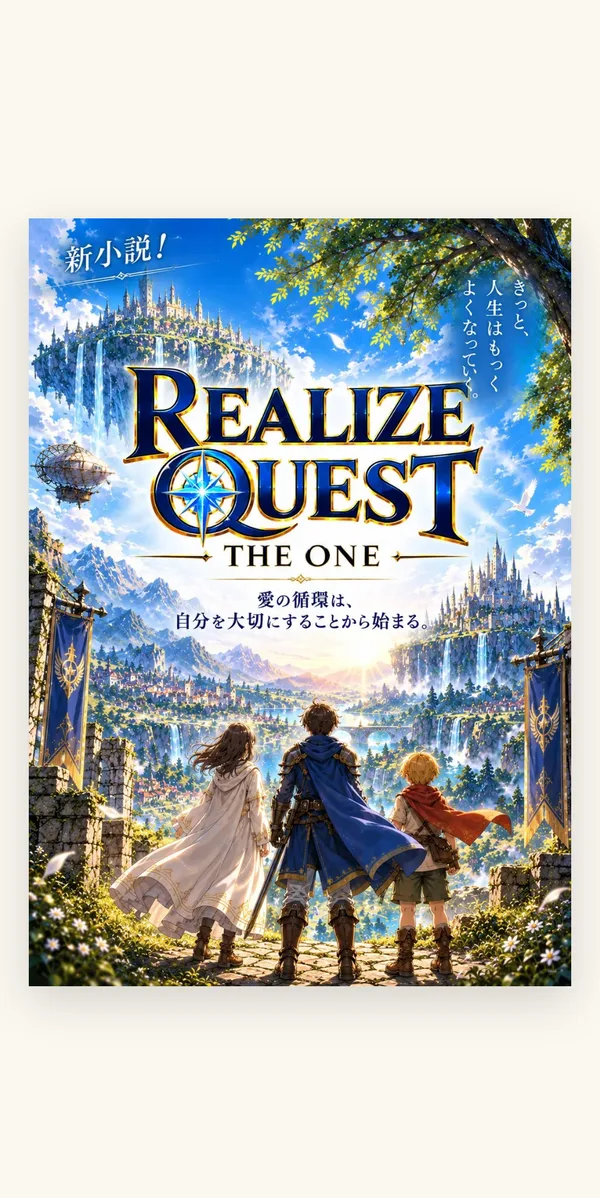
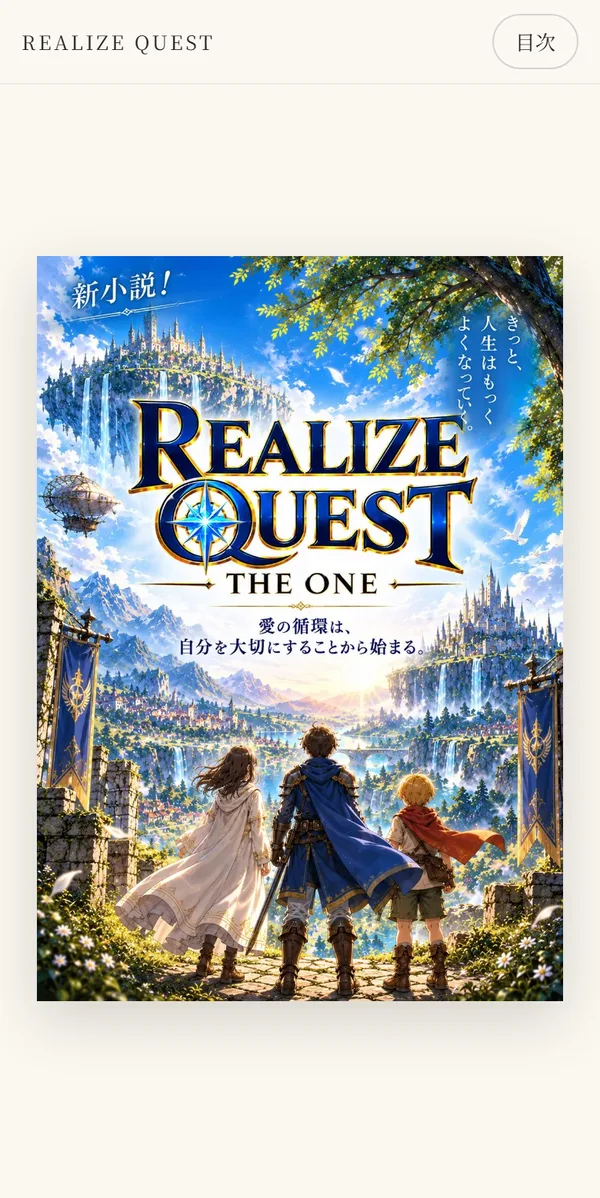
改善版: QUESTを電子書籍の表紙と本文ページの2枚並びに

diff --git a/v2/index.html b/v2/index.html
@@ -78,7 +78,7 @@
 <p data-fit="" style="--fit:4.104vw;--fit-cap:15px"><w-b>18本から、</w-b><w-b>未設計に</w-b><w-b>対応する</w-b><w-b>内容へ。</w-b></p></div>
 <div><span>FEEL &amp; REMEMBER</span>
 <h3><w-b>QUESTを</w-b><w-b>読む・聴く</w-b></h3>
-<p data-fit="" style="--fit:3.901vw;--fit-cap:15px"><w-b>物語の</w-b><w-b>最初から、</w-b><w-b>順番に</w-b><w-b>冒険を</w-b><w-b>楽しむ。</w-b></p></div></div><ol class="flow flow-h flow-academy"><li><strong><w-b>Check42で</w-b><w-b>気づく</w-b></strong><span><w-b>まだ</w-b><w-b>考えていない</w-b><w-b>テーマが</w-b><w-b>分かる</w-b></span></li><li><strong><w-b>ACADEMYで</w-b><w-b>学ぶ</w-b></strong><span><w-b>必要な</w-b><w-b>内容を</w-b><w-b>動画で</w-b><w-b>学ぶ</w-b></span></li><li><strong><w-b>QUESTで</w-b><w-b>感じる</w-b></strong><span><w-b>物語で、</w-b><w-b>その</w-b><w-b>大切さを</w-b><w-b>感じる</w-b></span></li><li><strong><w-b>ミオ先生と</w-b><w-b>整理する</w-b></strong><span><w-b>感じた</w-b><w-b>ことを</w-b><w-b>言葉に</w-b><w-b>する</w-b></span></li><li><strong><w-b>ROADMAPに</w-b><w-b>つなぐ</w-b></strong><span><w-b>人生設計書に</w-b><w-b>まとめる</w-b></span></li></ol><div class="academy-row"><div class="can"><p class="can-label"><w-b>できる</w-b><w-b>こと</w-b></p><ul><li><w-b>Check42の</w-b><w-b>結果に</w-b><w-b>合わせて、</w-b><w-b>動画を</w-b><w-b>選んで</w-b><w-b>学ぶ</w-b></li><li><w-b>冒険物語</w-b><w-b>『REALIZE QUEST THE ONE』を</w-b><w-b>最初から</w-b><w-b>読み進める</w-b></li><li><w-b>心に</w-b><w-b>残った</w-b><w-b>ことを</w-b><w-b>ミオ先生に</w-b><w-b>話し、</w-b><w-b>自分の</w-b><w-b>願いに</w-b><w-b>気づく</w-b></li></ul></div><figure class="shot-panel"><div class="phones"><div class="phone"><img alt="物語 REALIZE QUEST THE ONE の表紙" decoding="async" height="1198" loading="lazy" src="../shots/quest.webp" width="600"/></div></div><figcaption><w-b>物語</w-b><w-b>『REALIZE QUEST THE ONE』</w-b><w-b>（電子書籍版）</w-b></figcaption></figure></div></div>
+<p data-fit="" style="--fit:3.901vw;--fit-cap:15px"><w-b>物語の</w-b><w-b>最初から、</w-b><w-b>順番に</w-b><w-b>冒険を</w-b><w-b>楽しむ。</w-b></p></div></div><ol class="flow flow-h flow-academy"><li><strong><w-b>Check42で</w-b><w-b>気づく</w-b></strong><span><w-b>まだ</w-b><w-b>考えていない</w-b><w-b>テーマが</w-b><w-b>分かる</w-b></span></li><li><strong><w-b>ACADEMYで</w-b><w-b>学ぶ</w-b></strong><span><w-b>必要な</w-b><w-b>内容を</w-b><w-b>動画で</w-b><w-b>学ぶ</w-b></span></li><li><strong><w-b>QUESTで</w-b><w-b>感じる</w-b></strong><span><w-b>物語で、</w-b><w-b>その</w-b><w-b>大切さを</w-b><w-b>感じる</w-b></span></li><li><strong><w-b>ミオ先生と</w-b><w-b>整理する</w-b></strong><span><w-b>感じた</w-b><w-b>ことを</w-b><w-b>言葉に</w-b><w-b>する</w-b></span></li><li><strong><w-b>ROADMAPに</w-b><w-b>つなぐ</w-b></strong><span><w-b>人生設計書に</w-b><w-b>まとめる</w-b></span></li></ol><div class="academy-row"><div class="can"><p class="can-label"><w-b>できる</w-b><w-b>こと</w-b></p><ul><li><w-b>Check42の</w-b><w-b>結果に</w-b><w-b>合わせて、</w-b><w-b>動画を</w-b><w-b>選んで</w-b><w-b>学ぶ</w-b></li><li><w-b>冒険物語</w-b><w-b>『REALIZE QUEST THE ONE』を</w-b><w-b>最初から</w-b><w-b>読み進める</w-b></li><li><w-b>心に</w-b><w-b>残った</w-b><w-b>ことを</w-b><w-b>ミオ先生に</w-b><w-b>話し、</w-b><w-b>自分の</w-b><w-b>願いに</w-b><w-b>気づく</w-b></li></ul></div><figure class="shot-panel pair"><div class="phones"><div class="phone"><img alt="電子書籍 REALIZE QUEST THE ONE の表紙" decoding="async" height="1198" loading="lazy" src="../shots/quest.webp" width="600"/></div><div class="phone"><img alt="電子書籍 REALIZE QUEST THE ONE の本文のページ" decoding="async" height="1198" loading="lazy" src="../shots/quest-read.webp" width="600"/></div></div><figcaption><w-b>物語</w-b><w-b>『REALIZE QUEST THE ONE』の</w-b><w-b>電子書籍。</w-b><w-b>表紙と</w-b><w-b>本文の</w-b><w-b>ページ</w-b></figcaption></figure></div></div>
 <article class="chapter ch academy-chapter"><div class="ch-head"><p class="eyebrow">LIFE ACADEMY</p><h3 data-fit="" style="--fit:6.508vw;--fit-cap:26px">LIFE ACADEMY<br/><w-b>この</w-b><w-b>冒険が、</w-b><w-b>５年後、</w-b><w-b>１０年後の</w-b><br/><w-b>あなたの</w-b><w-b>選択を</w-b><w-b>支えますように。</w-b></h3></div><div class="chapter-visual screen-visual"><figure class="shot-panel"><div class="phones"><div class="phone"><img alt="LIFE Academy の本棚の画面" decoding="async" height="1198" loading="lazy" src="../shots/academy.webp" width="600"/></div></div><figcaption><w-b>LIFE Academyの</w-b><w-b>本棚画面。</w-b><w-b>動画の</w-b><w-b>視聴の</w-b><w-b>進み具合が</w-b><w-b>分かります</w-b></figcaption></figure></div><div class="ch-body"><div class="prose"><p><w-b>社会人と</w-b><w-b>して</w-b><w-b>歩み始める</w-b><w-b>あなたへ。</w-b><br/><w-b>これからの</w-b><w-b>人生には、</w-b><w-b>たくさんの</w-b><w-b>出会いと</w-b><w-b>選択が</w-b><w-b>待っています。</w-b></p></div><details class="more"><summary><span class="t-open"><w-b>詳しく</w-b><w-b>読む</w-b></span><span class="t-close"><w-b>閉じる</w-b></span></summary><div class="prose"><p><w-b>初めての</w-b><w-b>給料を</w-b><w-b>どう</w-b><w-b>使うか。</w-b><w-b>どんな</w-b><w-b>暮らしを</w-b><w-b>したいか。</w-b><w-b>誰と、</w-b><w-b>どんな</w-b><w-b>未来を</w-b><w-b>つくるか。</w-b><w-b>そして、</w-b><w-b>自分や</w-b><w-b>大切な</w-b><w-b>人を</w-b><w-b>どう</w-b><w-b>守っていくか。</w-b></p><p><w-b>その</w-b><w-b>一つ</w-b><w-b>ひとつは、</w-b><w-b>ひとつなぎの</w-b><w-b>人生に</w-b><w-b>なっていきます。</w-b></p><p><w-b>LIFE ACADEMYは、</w-b><w-b>あなたが</w-b><w-b>自分の</w-b><w-b>人生を</w-b><w-b>考え、</w-b><w-b>大切な</w-b><w-b>ものを</w-b><w-b>守りながら</w-b><w-b>未来を</w-b><w-b>選んでいく</w-b><w-b>ための、</w-b><w-b>人生教育です。</w-b></p><p><w-b>自分に</w-b><w-b>必要な</w-b><w-b>ことから、</w-b><w-b>学ぶ。</w-b></p><p><w-b>最初の</w-b><w-b>入口は、</w-b><w-b>LIFE Check42。</w-b><br/><w-b>お金・住まい・万が一・</w-b><w-b>健康・災害・老後という</w-b><w-b>６つの</w-b><w-b>テーマから、</w-b><w-b>まだ</w-b><w-b>考えられていない</w-b><w-b>こと、</w-b><w-b>備えられていない</w-b><w-b>こと</w-b><w-b>——人生の</w-b><w-b>「未設計」を</w-b><w-b>見つけます。</w-b></p><p><w-b>その</w-b><w-b>結果に</w-b><w-b>合わせて、</w-b><w-b>18本の</w-b><w-b>eラーニング動画の</w-b><w-b>中から、</w-b><w-b>自分に</w-b><w-b>必要な</w-b><w-b>内容を</w-b><w-b>学びます。</w-b></p><p><w-b>自分との</w-b><w-b>つながりが</w-b><w-b>分かるから、</w-b><w-b>学ぶ</w-b><w-b>理由が</w-b><w-b>見えてくる。</w-b><w-b>知識を</w-b><w-b>得る</w-b><w-b>ことで、</w-b><w-b>これから</w-b><w-b>何を</w-b><w-b>考え、</w-b><w-b>何を</w-b><w-b>準備すれば</w-b><w-b>よいかが、</w-b><w-b>少し</w-b><w-b>ずつ</w-b><w-b>見えてきます。</w-b></p></div></details></div></article>
 <article class="chapter ch academy-chapter"><div class="ch-head"><p class="eyebrow">LIFE ACADEMY</p><h3 data-fit="" style="--fit:6.135vw;--fit-cap:26px"><w-b>そして、</w-b><w-b>人生を</w-b><w-b>心で</w-b><w-b>感じる</w-b><w-b>冒険へ。</w-b></h3></div><div class="chapter-visual">
 <img alt="物語に心を動かされながら読書する" decoding="async" height="1024" loading="lazy" src="../assets/read.webp?v=2" width="1536"/></div><div class="ch-body"><div class="prose"><p><w-b>動画での</w-b><w-b>学びと</w-b><w-b>並行して</w-b><w-b>楽しむのが、</w-b><w-b>冒険物語</w-b><w-b>『REALIZE QUEST THE ONE』です。</w-b></p></div><details class="more"><summary><span class="t-open"><w-b>詳しく</w-b><w-b>読む</w-b></span><span class="t-close"><w-b>閉じる</w-b></span></summary><div class="prose"><p><w-b>最初の</w-b><w-b>ページから</w-b><w-b>旅を</w-b><w-b>共にし、</w-b><w-b>登場人物と</w-b><w-b>出会い、</w-b><w-b>迷い、</w-b><w-b>選びながら、</w-b><w-b>人生全体に</w-b><w-b>触れていきます。</w-b></p><p><w-b>旅立つ勇気。</w-b><w-b>送り出す父と</w-b><w-b>母の</w-b><w-b>寂しさと</w-b><w-b>愛。</w-b><w-b>そばに</w-b><w-b>いてくれる</w-b><w-b>人の</w-b><w-b>存在。</w-b><w-b>何気ない</w-b><w-b>日常が</w-b><w-b>続く</w-b><w-b>ことの</w-b><w-b>尊さ。</w-b></p><p><w-b>言葉から</w-b><w-b>情景を</w-b><w-b>思い描くうちに、</w-b><w-b>登場人物の</w-b><w-b>気持ちに、</w-b><w-b>自分の</w-b><w-b>経験や</w-b><w-b>大切な</w-b><w-b>人の</w-b><w-b>姿が</w-b><w-b>重なっていく。</w-b><w-b>その</w-b><w-b>場面で</w-b><w-b>感じた</w-b><w-b>ことと</w-b><w-b>一緒に、</w-b><w-b>生きていく</w-b><w-b>うえで</w-b><w-b>大事な</w-b><w-b>知識が</w-b><w-b>心に</w-b><w-b>残っていきます。</w-b></p><p><w-b>動画で、</w-b><w-b>必要な</w-b><w-b>知識を</w-b><w-b>理解する。</w-b><br/><w-b>物語で、</w-b><w-b>その</w-b><w-b>知識が</w-b><w-b>大切な</w-b><w-b>理由を</w-b><w-b>心に</w-b><w-b>刻む。</w-b></p><p><w-b>この</w-b><w-b>２つを</w-b><w-b>重ねる</w-b><w-b>ことで、</w-b><w-b>人生の</w-b><w-b>学びを</w-b><w-b>一人ひとりの</w-b><w-b>日常へと</w-b><w-b>浸透させていく。</w-b><w-b>それが、</w-b><w-b>LIFE ACADEMYの</w-b><w-b>学び方です。</w-b></p></div></details></div></article>
